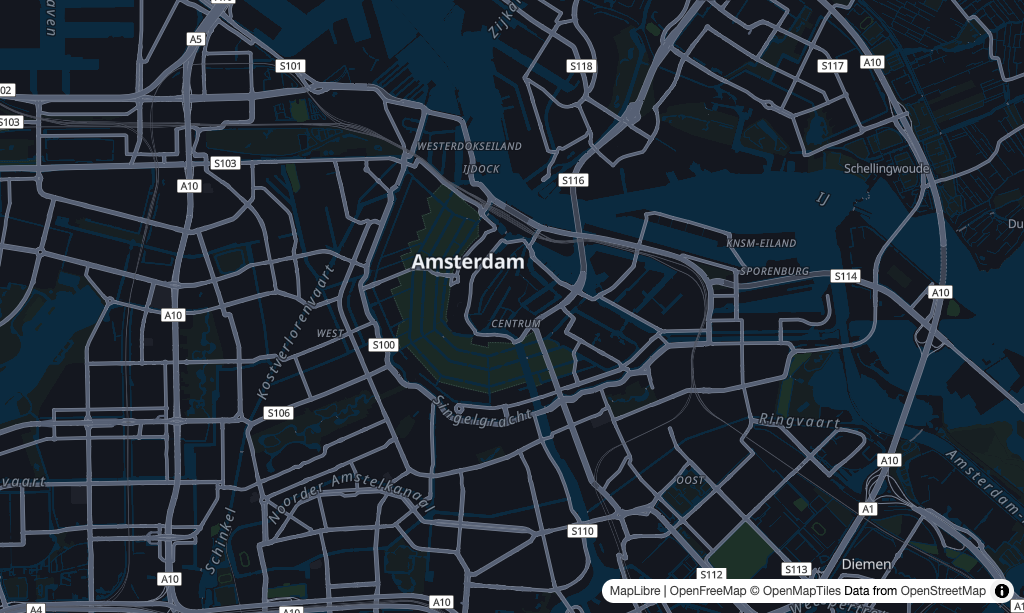
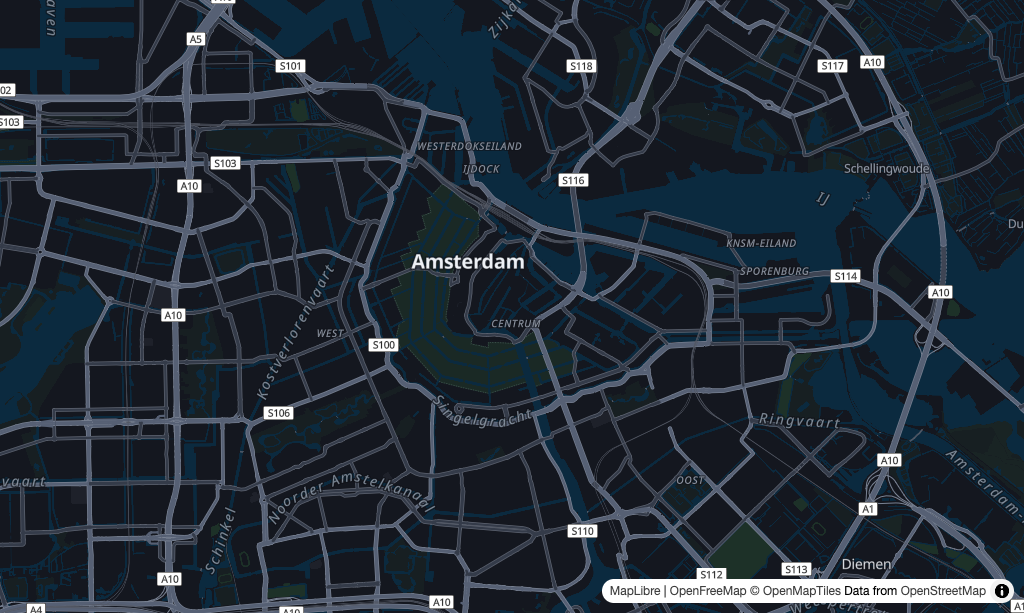
Split Liberty tertiary roads into roadMinor

diff --git a/src/style/split.ts b/src/style/split.ts
@@ -1,24 +1,37 @@
 import type { LayerSpecification } from 'maplibre-gl';
 import type { LayerSplit, StyleMapping } from '../mapping/types';
+import type { WarningHandler } from './fallback';
 
-function splitLayer(layer: LayerSpecification, split: LayerSplit): LayerSpecification[] {
-  const { filter } = layer as { filter?: unknown };
-  if (!Array.isArray(filter)) throw new Error(`Split "${split.layerId}" needs a filtered layer`);
-  const withClass = (test: unknown[]) => ({ filter: ['all', filter, test] });
-  return [
-    { ...layer, ...withClass(['!in', 'class', ...split.classes]) } as LayerSpecification,
-    { ...layer, id: split.newId, ...withClass(['in', 'class', ...split.classes]) } as LayerSpecification,
-  ];
+// A filter cannot mix syntaxes, so the class test follows the one the layer already uses.
+function classTest(filter: unknown[], classes: string[], included: boolean): unknown[] {
+  const isExpression = JSON.stringify(filter).includes('["get",');
+  if (isExpression) return ['match', ['get', 'class'], classes, included, !included];
+  return [included ? 'in' : '!in', 'class', ...classes];
 }
 
-/** The base layers with the mapping's splits applied. Every split must find its layer. */
-export function expandLayers(layers: LayerSpecification[], mapping: StyleMapping): LayerSpecification[] {
+function splitLayer(layer: LayerSpecification, filter: unknown[], { newId, classes }: LayerSplit): LayerSpecification[] {
+  const narrowed = (included: boolean) => ({ ...layer, filter: ['all', filter, classTest(filter, classes, included)] });
+  return [narrowed(false), { ...narrowed(true), id: newId }] as unknown as LayerSpecification[];
+}
+
+/** The base layers with the mapping's splits applied. A split that cannot run is skipped with a warning. */
+export function expandLayers(
+  layers: LayerSpecification[],
+  mapping: StyleMapping,
+  warn: WarningHandler,
+): LayerSpecification[] {
   const splits = mapping.splits ?? [];
   for (const { layerId } of splits) {
-    if (!layers.some((layer) => layer.id === layerId)) throw new Error(`${mapping.id}: no layer "${layerId}" to split`);
+    if (!layers.some((layer) => layer.id === layerId)) {
+      warn({ code: 'missing-split', layerId, message: `${mapping.id}: no layer "${layerId}" to split` });
+    }
   }
   return layers.flatMap((layer) => {
     const split = splits.find((candidate) => candidate.layerId === layer.id);
-    return split ? splitLayer(layer, split) : [layer];
+    const { filter } = layer as { filter?: unknown };
+    if (!split) return [layer];
+    if (Array.isArray(filter)) return splitLayer(layer, filter, split);
+    warn({ code: 'missing-split', layerId: layer.id, message: `${mapping.id}: "${layer.id}" has no filter to split` });
+    return [layer];
   });
 }

diff --git a/src/mapping/liberty.ts b/src/mapping/liberty.ts
@@ -16,6 +16,15 @@ export const libertyMapping: StyleMapping = {
   id: 'liberty',
   name: 'OpenFreeMap Liberty',
   provider: { id: 'openfreemap' },
+  // Secondary is roadMajor and tertiary is roadMinor, but Liberty draws them in one layer.
+  splits: [
+    { layerId: 'tunnel_secondary_tertiary_casing', newId: 'tunnel_tertiary_casing', classes: ['tertiary'] },
+    { layerId: 'tunnel_secondary_tertiary', newId: 'tunnel_tertiary', classes: ['tertiary'] },
+    { layerId: 'road_secondary_tertiary_casing', newId: 'road_tertiary_casing', classes: ['tertiary'] },
+    { layerId: 'road_secondary_tertiary', newId: 'road_tertiary', classes: ['tertiary'] },
+    { layerId: 'bridge_secondary_tertiary_casing', newId: 'bridge_tertiary_casing', classes: ['tertiary'] },
+    { layerId: 'bridge_secondary_tertiary', newId: 'bridge_tertiary', classes: ['tertiary'] },
+  ],
   rules: [
     { match: { type: 'background' }, group: 'core', colors: { 'background-color': 'land' } },
     {
@@ -54,9 +63,9 @@ export const libertyMapping: StyleMapping = {
     // Rail: matched before roads because tunnel_ and bridge_ prefixes overlap
     { match: { ...transport, idPattern: /_rail(_hatching)?$/ }, group: 'transit', colors: { 'line-color': rail }, why: 'No rail token; a neutral between land and secondary label.' },
 
-    // Roads. Tertiary reads as major: it shares one layer, width ramp included, with secondary.
+    // Roads
     ...roadRules(/(motorway|trunk_primary|secondary_tertiary|link)/, 'roadMajor', 'core'),
-    ...roadRules(/(service_track|street|minor|path_pedestrian)/, 'roadMinor', 'minorRoads'),
+    ...roadRules(/(tertiary|service_track|street|minor|path_pedestrian)/, 'roadMinor', 'minorRoads'),
     {
       match: { sourceLayer: 'transportation', type: 'fill' },
       group: 'minorRoads',

diff --git a/docs/reports/unmapped-liberty.md b/docs/reports/unmapped-liberty.md
@@ -2,7 +2,9 @@
 
 Generated by `npm run reports`. Do not edit.
 
-111 layers: 51 mapped, 59 derived, 1 hidden by design.
+117 layers: 53 mapped, 63 derived, 1 hidden by design.
+
+Includes 6 layers split out by road class: `tunnel_secondary_tertiary_casing` → `tunnel_tertiary_casing`, `tunnel_secondary_tertiary` → `tunnel_tertiary`, `road_secondary_tertiary_casing` → `road_tertiary_casing`, `road_secondary_tertiary` → `road_tertiary`, `bridge_secondary_tertiary_casing` → `bridge_tertiary_casing`, `bridge_secondary_tertiary` → `bridge_tertiary`.
 
 Sorted by visual importance: default-on layers first, then fills, lines and symbols.
 
@@ -48,12 +50,14 @@ Sorted by visual importance: default-on layers first, then fills, lines and symb
 | bridge_path_pedestrian_casing | line | transportation | derived | hsl(35,6%,80%) | line-color: roadMinor → labelPrimary 25% | Casings and tunnels have no token; they follow their road so hierarchy holds. |
 | bridge_service_track_casing | line | transportation | derived | #cfcdca | line-color: roadMinor → labelPrimary 25% | Casings and tunnels have no token; they follow their road so hierarchy holds. |
 | bridge_street_casing | line | transportation | derived | hsl(36,6%,74%) | line-color: roadMinor → labelPrimary 25% | Casings and tunnels have no token; they follow their road so hierarchy holds. |
+| bridge_tertiary_casing | line | transportation | derived | #e9ac77 | line-color: roadMinor → labelPrimary 25% | Casings and tunnels have no token; they follow their road so hierarchy holds. |
 | bridge_transit_rail | line | transportation | derived | #bbb | line-color: land → labelSecondary 45% | No rail token; a neutral between land and secondary label. |
 | bridge_transit_rail_hatching | line | transportation | derived | #bbb | line-color: land → labelSecondary 45% | No rail token; a neutral between land and secondary label. |
 | road_major_rail | line | transportation | derived | #bbb | line-color: land → labelSecondary 45% | No rail token; a neutral between land and secondary label. |
 | road_major_rail_hatching | line | transportation | derived | #bbb | line-color: land → labelSecondary 45% | No rail token; a neutral between land and secondary label. |
 | road_minor_casing | line | transportation | derived | #cfcdca | line-color: roadMinor → labelPrimary 25% | Casings and tunnels have no token; they follow their road so hierarchy holds. |
 | road_service_track_casing | line | transportation | derived | #cfcdca | line-color: roadMinor → labelPrimary 25% | Casings and tunnels have no token; they follow their road so hierarchy holds. |
+| road_tertiary_casing | line | transportation | derived | #e9ac77 | line-color: roadMinor → labelPrimary 25% | Casings and tunnels have no token; they follow their road so hierarchy holds. |
 | road_transit_rail | line | transportation | derived | #bbb | line-color: land → labelSecondary 45% | No rail token; a neutral between land and secondary label. |
 | road_transit_rail_hatching | line | transportation | derived | #bbb | line-color: land → labelSecondary 45% | No rail token; a neutral between land and secondary label. |
 | tunnel_major_rail | line | transportation | derived | #bbb | line-color: land → labelSecondary 45% | No rail token; a neutral between land and secondary label. |
@@ -63,6 +67,8 @@ Sorted by visual importance: default-on layers first, then fills, lines and symb
 | tunnel_service_track | line | transportation | derived | #fff | line-color: roadMinor → land 35% | Casings and tunnels have no token; they follow their road so hierarchy holds. |
 | tunnel_service_track_casing | line | transportation | derived | #cfcdca | line-color: roadMinor → labelPrimary 25% | Casings and tunnels have no token; they follow their road so hierarchy holds. |
 | tunnel_street_casing | line | transportation | derived | #cfcdca | line-color: roadMinor → labelPrimary 25% | Casings and tunnels have no token; they follow their road so hierarchy holds. |
+| tunnel_tertiary | line | transportation | derived | #fff4c6 | line-color: roadMinor → land 35% | Casings and tunnels have no token; they follow their road so hierarchy holds. |
+| tunnel_tertiary_casing | line | transportation | derived | #e9ac77 | line-color: roadMinor → labelPrimary 25% | Casings and tunnels have no token; they follow their road so hierarchy holds. |
 | tunnel_transit_rail | line | transportation | derived | #bbb | line-color: land → labelSecondary 45% | No rail token; a neutral between land and secondary label. |
 | tunnel_transit_rail_hatching | line | transportation | derived | #bbb | line-color: land → labelSecondary 45% | No rail token; a neutral between land and secondary label. |
 | water_name_line_label | symbol | water_name | derived | #495e91, rgba(255,255,255,0.7) | text-color: water → labelPrimary 60%; text-halo-color: halo | Water names sit on water, so they derive from it. |
